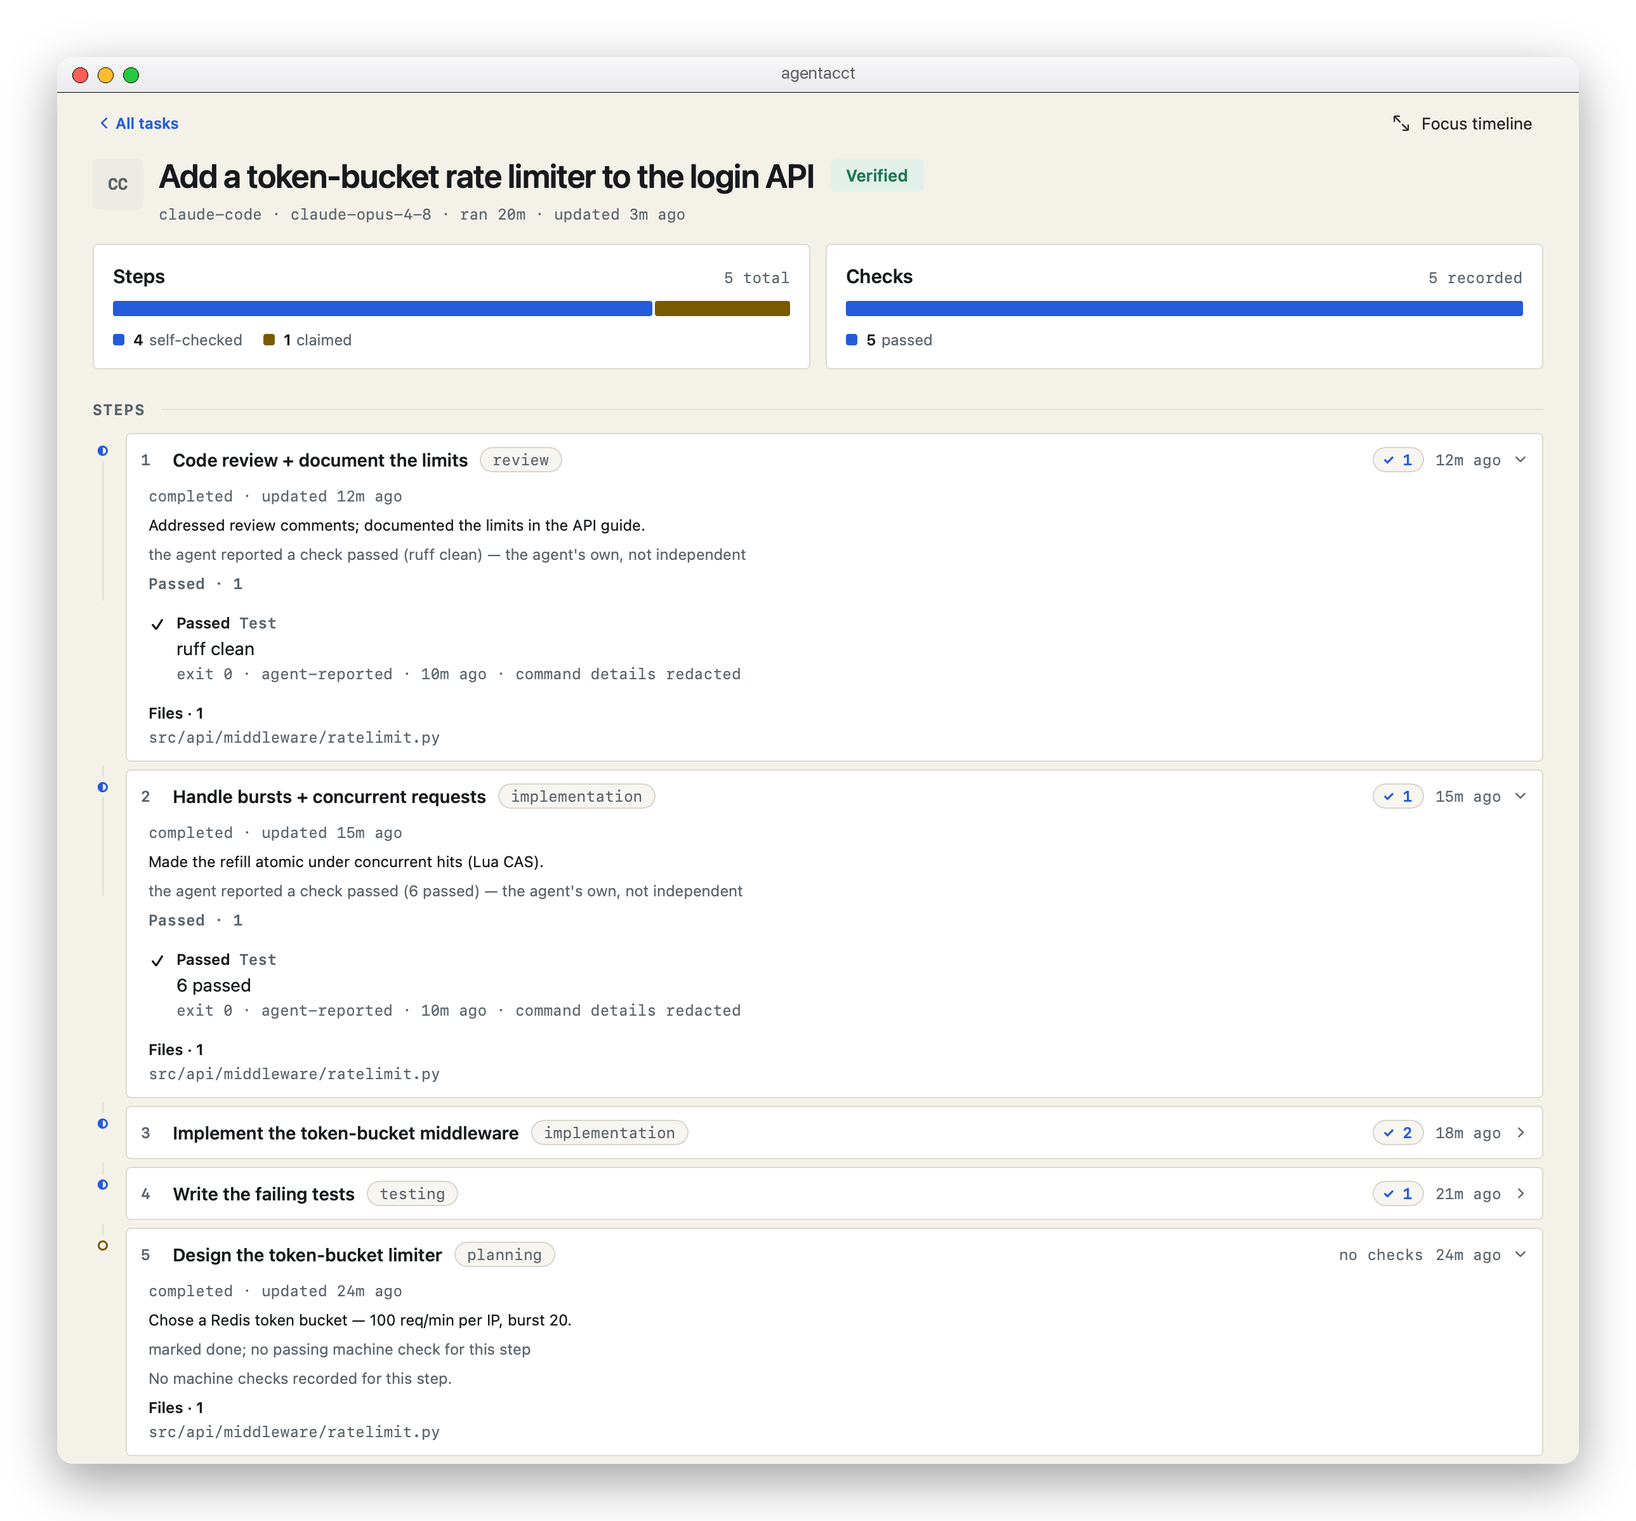
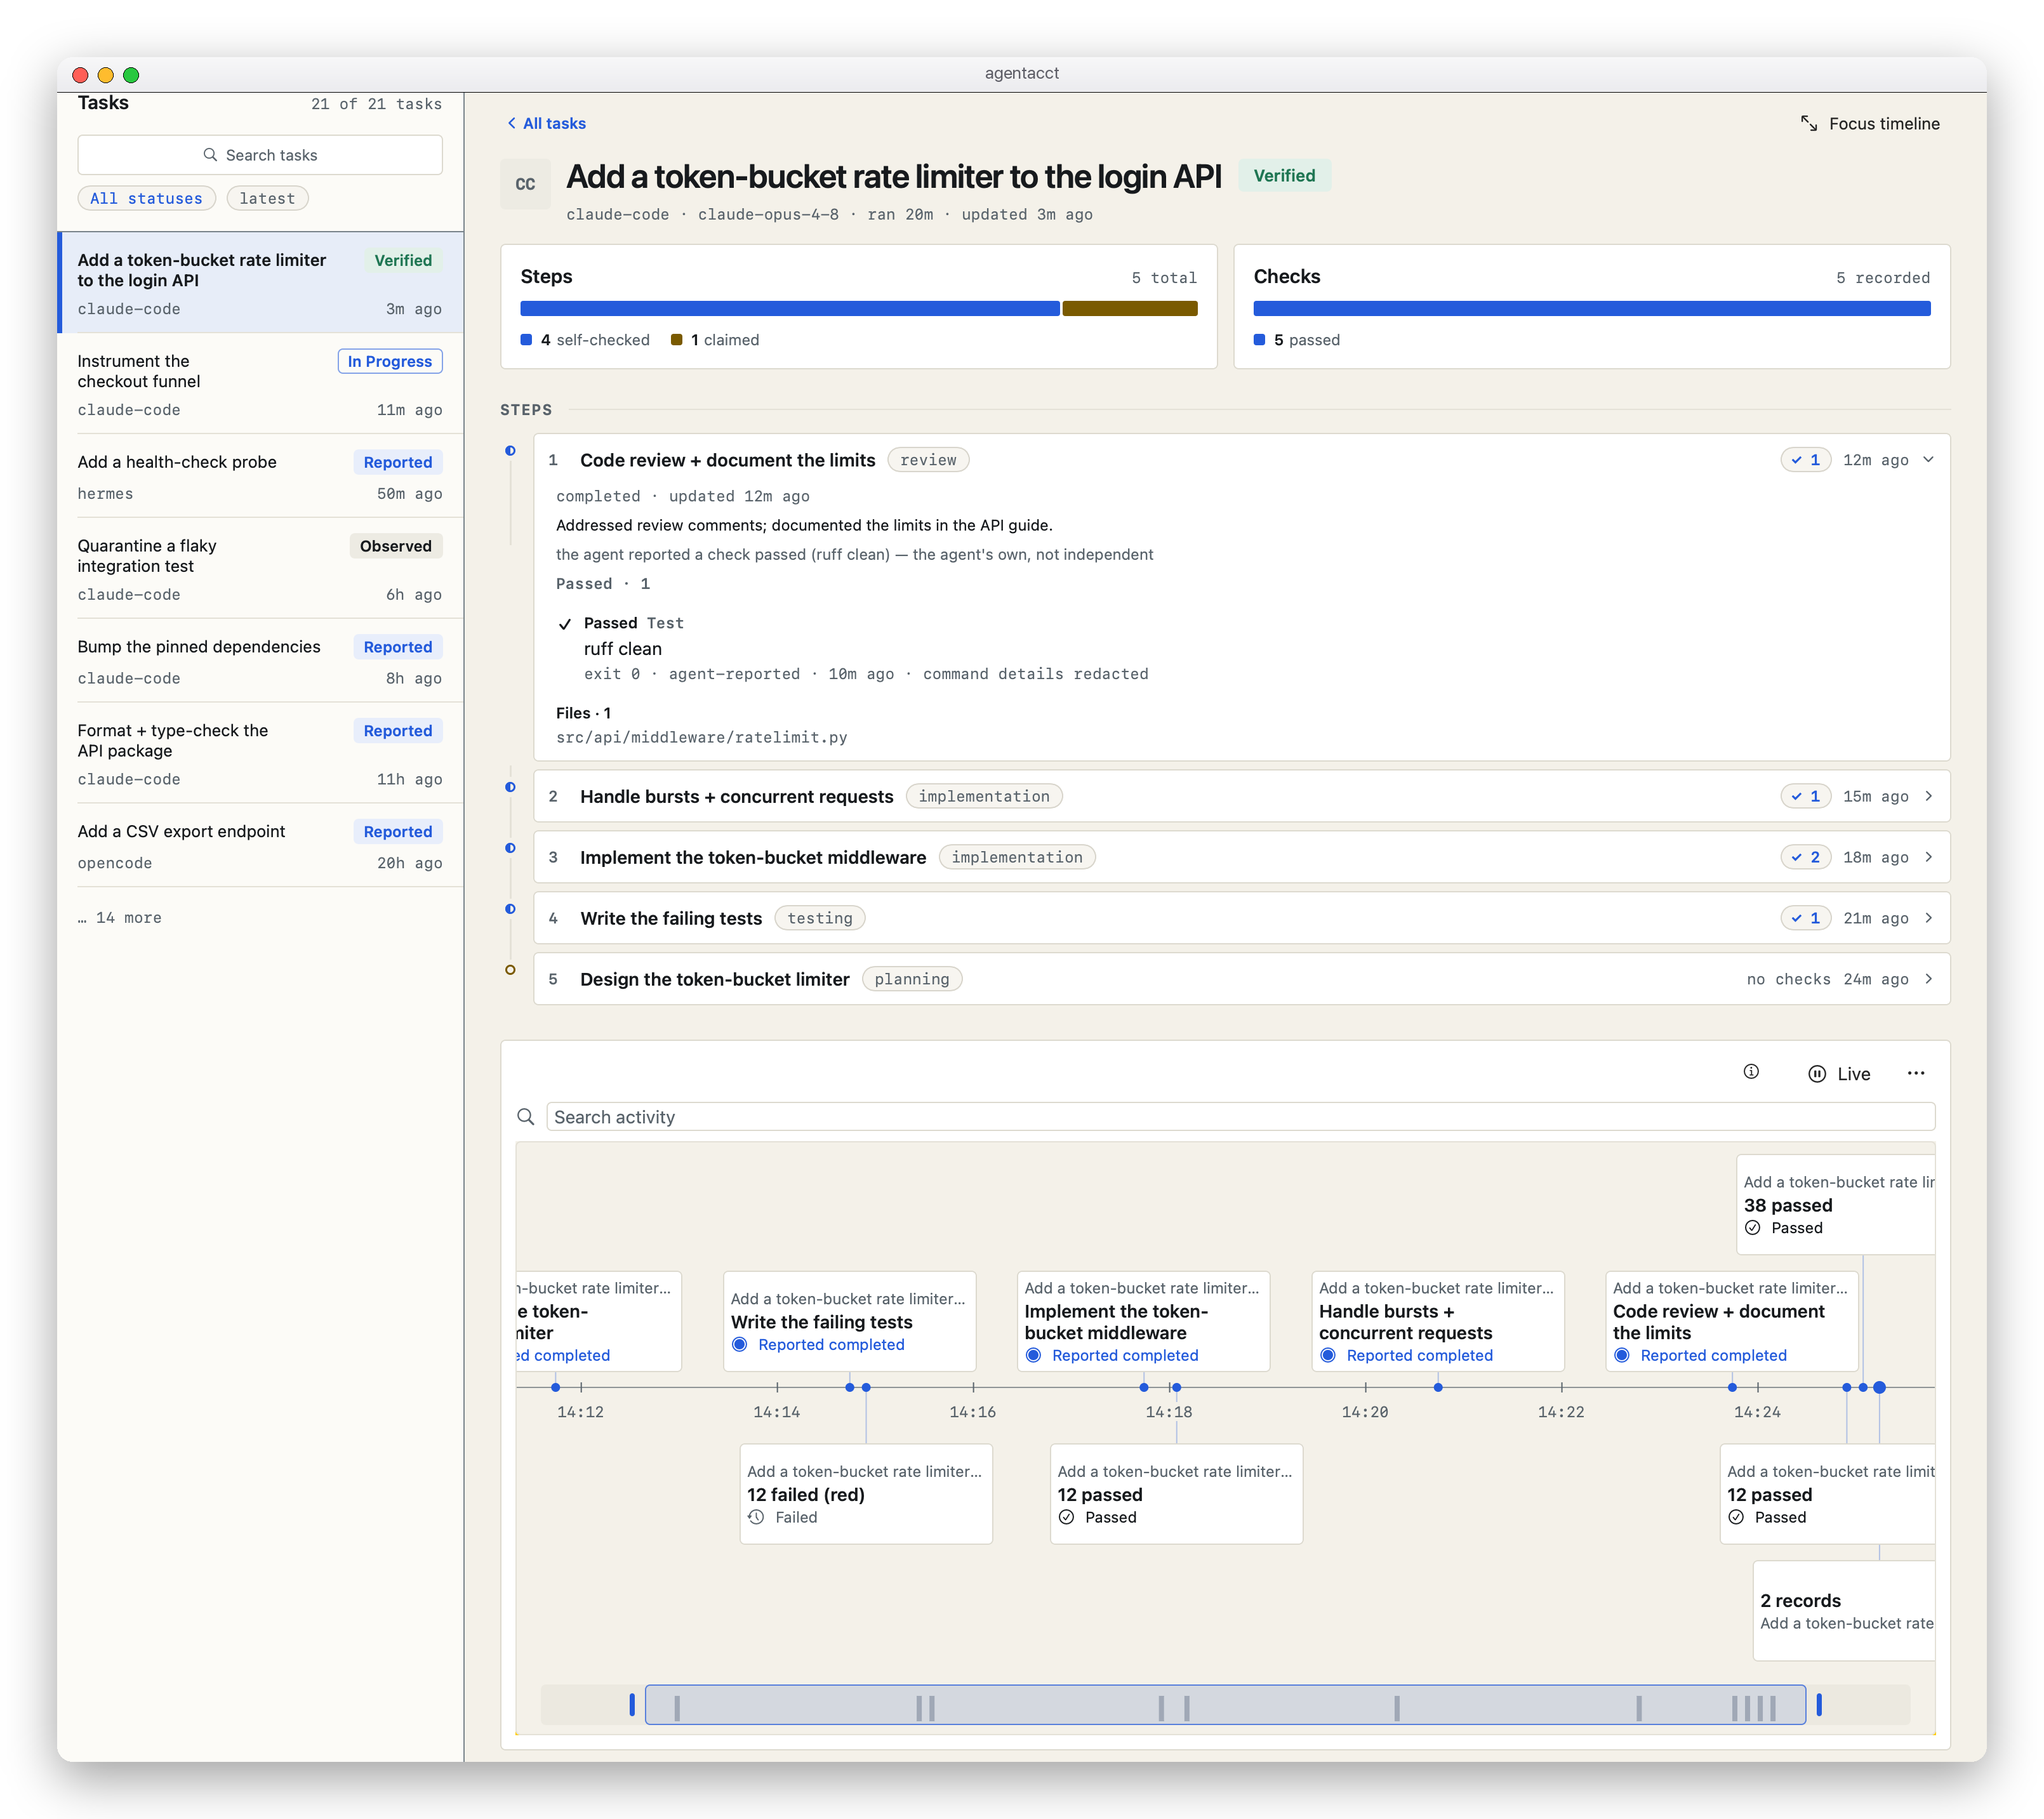
docs: open the README on the one question it answers; hero shows the Sessions view
The README now leads with the question the product answers, then the
Sessions view as its hero: the task list with one verdict per row, the open
receipt with its outcome bars and step spine (one step expanded), and the
activity timeline in the same frame. The separate timeline asset goes away
and the two receipt sections merge into "Done, according to whom?".

Docs `--snapshot` path: SnapshotMode gains expandedStepsWithChecks /
expandedStepsWithoutChecks (default 2 + 1, unchanged for the golden fixture
renders); SnapshotRunner reads AGENTACCT_SNAPSHOT_EXPANDED_STEPS so the
generator can open a single step, and the wide render's natural height is
re-measured accordingly.

diff --git a/apps/agentacct/Sources/agentacct/SnapshotRunner.swift b/apps/agentacct/Sources/agentacct/SnapshotRunner.swift
@@ -17,6 +17,15 @@ enum SnapshotRunner {
         // primitives. The fixture renderers (golden path) deliberately do NOT set
         // this, keeping their references pixel-stable.
         SnapshotMode.rendersStaticControls = true
+        // "<with checks>,<without checks>" — the docs pipeline narrows the open
+        // step set so one screenshot fits the step spine and the timeline.
+        if let spec = ProcessInfo.processInfo.environment["AGENTACCT_SNAPSHOT_EXPANDED_STEPS"] {
+            let parts = spec.split(separator: ",").map { Int($0.trimmingCharacters(in: .whitespaces)) }
+            if parts.count == 2, let a = parts[0], let b = parts[1] {
+                SnapshotMode.expandedStepsWithChecks = a
+                SnapshotMode.expandedStepsWithoutChecks = b
+            }
+        }
         var finished = false
         Task { @MainActor in
             defer { finished = true }

diff --git a/apps/agentacct/Sources/agentacct/Theme.swift b/apps/agentacct/Sources/agentacct/Theme.swift
@@ -1251,6 +1251,14 @@ enum SnapshotMode {
     /// fixture renderers leave it `false` and keep the real interactive controls
     /// — so the golden references are unchanged.
     nonisolated(unsafe) static var rendersStaticControls = false
+
+    /// How many steps a snapshot opens: check-bearing steps first, then
+    /// un-checked ones. The golden fixture renders keep the default (2 + 1) so
+    /// their references are unchanged; the README `--snapshot` path can narrow
+    /// it (AGENTACCT_SNAPSHOT_EXPANDED_STEPS, e.g. "1,0") so a single docs
+    /// screenshot fits the step spine and the activity timeline together.
+    nonisolated(unsafe) static var expandedStepsWithChecks = 2
+    nonisolated(unsafe) static var expandedStepsWithoutChecks = 1
 }
 
 struct ScrollBox<Content: View>: View {

diff --git a/apps/agentacct/Sources/agentacct/StepComponents.swift b/apps/agentacct/Sources/agentacct/StepComponents.swift
@@ -190,8 +190,10 @@ extension SessionStepItem {
     /// a change here can't drift the golden references between them.
     static func snapshotOpenedIDs(_ items: [SessionStepItem]) -> Set<String> {
         Set(
-            items.filter { !($0.step.checks?.isEmpty ?? true) }.prefix(2).map(\.id)
-            + items.filter { ($0.step.checks?.isEmpty ?? true) }.prefix(1).map(\.id)
+            items.filter { !($0.step.checks?.isEmpty ?? true) }
+                .prefix(max(0, SnapshotMode.expandedStepsWithChecks)).map(\.id)
+            + items.filter { ($0.step.checks?.isEmpty ?? true) }
+                .prefix(max(0, SnapshotMode.expandedStepsWithoutChecks)).map(\.id)
         )
     }
 }

diff --git a/scripts/gen_app_screenshots.py b/scripts/gen_app_screenshots.py
@@ -63,15 +63,18 @@ WIDE_SRC = "window-work-wide-light.png"
 # height: the offscreen ScrollBox pins content to the top, so a taller frame
 # stretches the flexible timeline card into an empty band, and a shorter one
 # clips the supporting sections. SnapshotRunner reads it from the environment.
-WIDE_HEIGHT = 2348
+WIDE_HEIGHT = 1993
+# Which steps the receipt opens in the docs render: "<with checks>,<without>".
+# One expanded step keeps the spine short enough for the hero to fit the step
+# spine and the activity timeline in one screenshot.
+EXPANDED_STEPS = "1,0"
 # Crops out of the raw renders: dst -> (raw render, (left, top, right, bottom)).
 # Regions are device pixels; None means the render's own edge.
 CROPS = {
-    # Hero: breadcrumb, title + verdict, the Steps / Checks outcome bars, and the
-    # whole numbered step spine (five steps) from the wide receipt render.
-    "app-work-receipt.png": (WIDE_SRC, (642, 130, None, 2290)),
-    # The activity timeline: every recorded step and its checks over time.
-    "app-receipt-timeline.png": (WIDE_SRC, (642, 2318, None, 3466)),
+    # Hero: the task list, then the open receipt — title + verdict, the Steps /
+    # Checks outcome bars, the numbered step spine (one step expanded), and the
+    # activity timeline card — from the wide Sessions render.
+    "app-work-receipt.png": (WIDE_SRC, (0, 130, None, 2760)),
     # The Work tab: the nav bar, the page title, and the first (workday) card.
     "app-work.png": ("window-work-light.png", (0, 0, None, 1122)),
     # Usage: the page title and the per-client Current capacity table only.
@@ -642,7 +645,8 @@ def main():
         # Real HOME for the app process (GUI/WindowServer); AGENTACCT_STORE_DIR
         # is the only thing that points it at the demo store.
         app_env = {**os.environ, "AGENTACCT_STORE_DIR": str(STORE),
-                   "AGENTACCT_SNAPSHOT_WIDE_HEIGHT": str(WIDE_HEIGHT)}
+                   "AGENTACCT_SNAPSHOT_WIDE_HEIGHT": str(WIDE_HEIGHT),
+                   "AGENTACCT_SNAPSHOT_EXPANDED_STEPS": EXPANDED_STEPS}
         r = subprocess.run([str(APP_BIN), "--snapshot", str(SHOTS_TMP)], env=app_env,
                            capture_output=True, text=True, timeout=180)
         if r.returncode != 0:

diff --git a/README.md b/README.md
@@ -5,11 +5,11 @@
 [![Python](https://img.shields.io/pypi/pyversions/agentacct.svg)](https://pypi.org/project/agentacct/)
 [![License: MIT](https://img.shields.io/badge/license-MIT-yellow.svg)](LICENSE)
 
-**Your coding agent says it is done. agentacct shows you what it actually did, what it cost, and how much of that is proven.**
+**agentacct answers one simple question: what the fuck are my agents actually doing?**
 
-One Work Receipt per task, built from the session logs your coding agents (Claude Code, Codex, OpenCode, Hermes, and others) already write on your machine. No account, no cloud, nothing leaves your computer.
+Your coding agent says it is done. agentacct shows you what it actually did, what it cost, and how much of that is proven: one Work Receipt per task, built from the session logs your coding agents (Claude Code, Codex, OpenCode, Hermes, and others) already write on your machine. No account, no cloud, nothing leaves your computer.
 
-![A Work Receipt for "Add a token-bucket rate limiter to the login API", marked Verified. Two bars summarize the run: 5 steps (4 self-checked, 1 claimed) and 5 checks (5 passed). Below them the numbered step spine lists the five steps; the expanded ones show each check with its exit code, whether it was agent-reported, and the file touched, and the planning step shows no machine check at all.](https://raw.githubusercontent.com/mikehasa/agentacct/readme-revamp/docs/assets/app-work-receipt.png)
+![The Sessions view: on the left, the task list with one verdict per row (Verified, In Progress, Reported, Observed); on the right, the open receipt for "Add a token-bucket rate limiter to the login API", marked Verified, with two bars (5 steps: 4 self-checked, 1 claimed; 5 checks: 5 passed), the numbered step spine with the latest step expanded to its agent-reported check, exit code, and touched file, and below it the activity timeline where the check cards run from 12 failed to 12 passed, 12 passed, and 38 passed.](https://raw.githubusercontent.com/mikehasa/agentacct/readme-revamp/docs/assets/app-work-receipt.png)
 
 <sub>Screenshots show a synthetic demo workspace; your install renders your own local data.</sub>
 
@@ -29,15 +29,11 @@ The per-agent setup, a `--scope project` install, and the `uv`/`venv` alternativ
 
 ## Done, according to whom?
 
-The receipt at the top answers three questions in order: did it finish, who says so, and is the proof still current.
+The receipt above answers three questions in order: did it finish, who says so, and is the proof still current.
 
 The agent's own "done" files under **Reported**. A task reads **Verified** only when every current check passes and ran after the last recorded change. A step with no check stays **claimed**, and every check carries its evidence tier: agent-reported, a hook-observed exit code, or CI. In the receipt above, steps 1 to 4 carry agent-reported checks; step 5 is a bare claim, and the receipt says so.
 
-## The red run stays on the record
-
-![The receipt's activity timeline: each recorded step sits above a shared time axis as "Reported completed"; below the axis the check cards read 12 failed, then 12 passed and 12 passed, with a final 38 passed card above the axis at the right edge and a 2 records cluster card at the bottom right.](https://raw.githubusercontent.com/mikehasa/agentacct/readme-revamp/docs/assets/app-receipt-timeline.png)
-
-Failing runs are never averaged away. Here the first test run failed 12; the later runs passed 12, 12, and 38, and the timeline keeps all four, so you can see when the proof caught up with the code and when it did not.
+The timeline under the steps keeps the red run. The first test run failed 12; the later runs passed 12, 12, and 38, and nothing is averaged away, so you can see when the proof caught up with the code and when it did not.
 
 ## A day's work, across every agent you run
 
@@ -47,9 +43,9 @@ Point a work group at a project folder and every session that ran there lands on
 
 ## Start the day with what needs you
 
-![The Dashboard: a Shift Brief leading with "Fix the flaky payment test" (billing-svc, claude-code, 1 failed and 7 passed, recorded reason Failed check, observed 9 hours ago, provenance MCP record) with Review evidence and Copy review brief buttons; a Signal rail with Working now, Capacity, Usage change, and Evidence trust; a Recent work table; and a seven-day usage chart.](https://raw.githubusercontent.com/mikehasa/agentacct/readme-revamp/docs/assets/app-dashboard.png)
+![The Dashboard: a Shift Brief leading with "Fix the flaky payment test" (billing-svc, claude-code, 1 failed and 7 passed, recorded reason Failed check, provenance MCP record) with Review evidence and Copy review brief buttons; a Signal rail with Working now, Capacity, Usage change, and Evidence trust; a Recent work table; and a seven-day usage chart.](https://raw.githubusercontent.com/mikehasa/agentacct/readme-revamp/docs/assets/app-dashboard.png)
 
-The Shift Brief names the one task that most needs a human, its recorded reason, and where that claim came from: here a failed check on "Fix the flaky payment test", observed 9 hours ago, recorded over MCP. **Copy review brief** copies only recorded facts and never reruns anything.
+The Shift Brief names the one task that most needs a human, its recorded reason, and where that claim came from: here a failed check on "Fix the flaky payment test", recorded over MCP. **Copy review brief** copies only recorded facts and never reruns anything.
 
 ## Know your limits before the agent hits them
 
